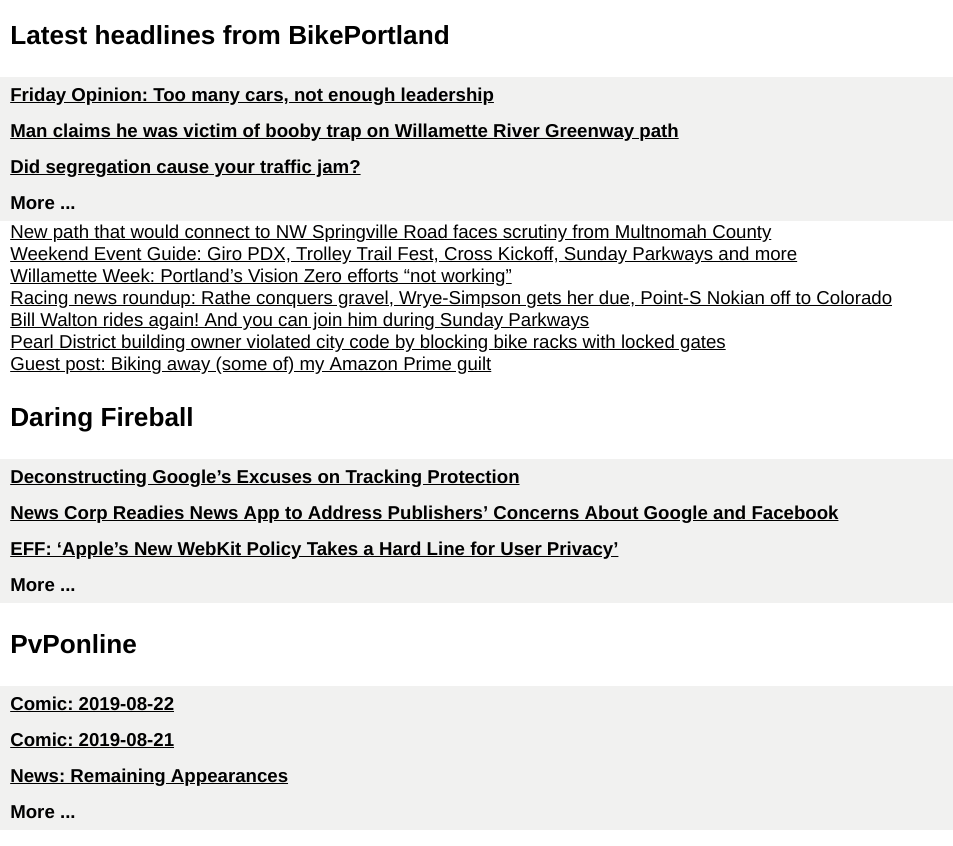
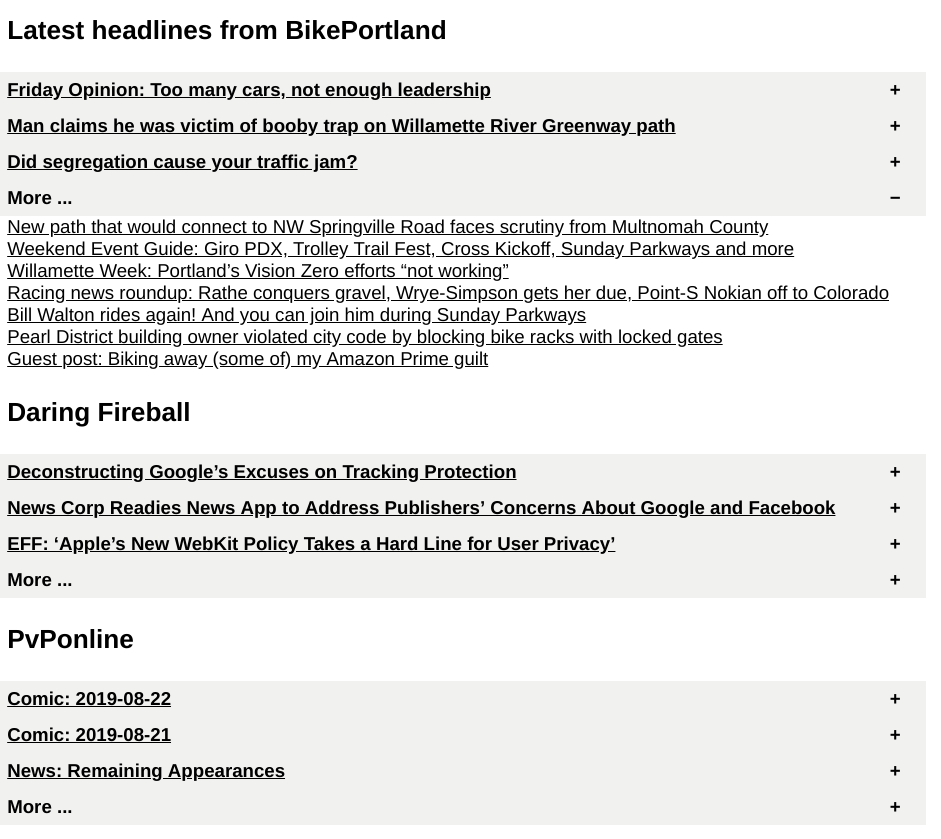
Improved image quality and presentation in readme.

diff --git a/readme.rst b/readme.rst
@@ -4,6 +4,11 @@ Python RSS reader
 Quick and dirty rss aggregator to html file with collapsible sections.
 
 .. figure:: rss-reader.png
+   :scale: 66%
+   :align: center
+   :alt: Demo image of the aggregator
+
+   Figure 1: How it looks with the 1st More section expanded
 
 * uses feedparser to parse rss files: https://github.com/kurtmckee/feedparser
 * prints out summary of first 3 results
